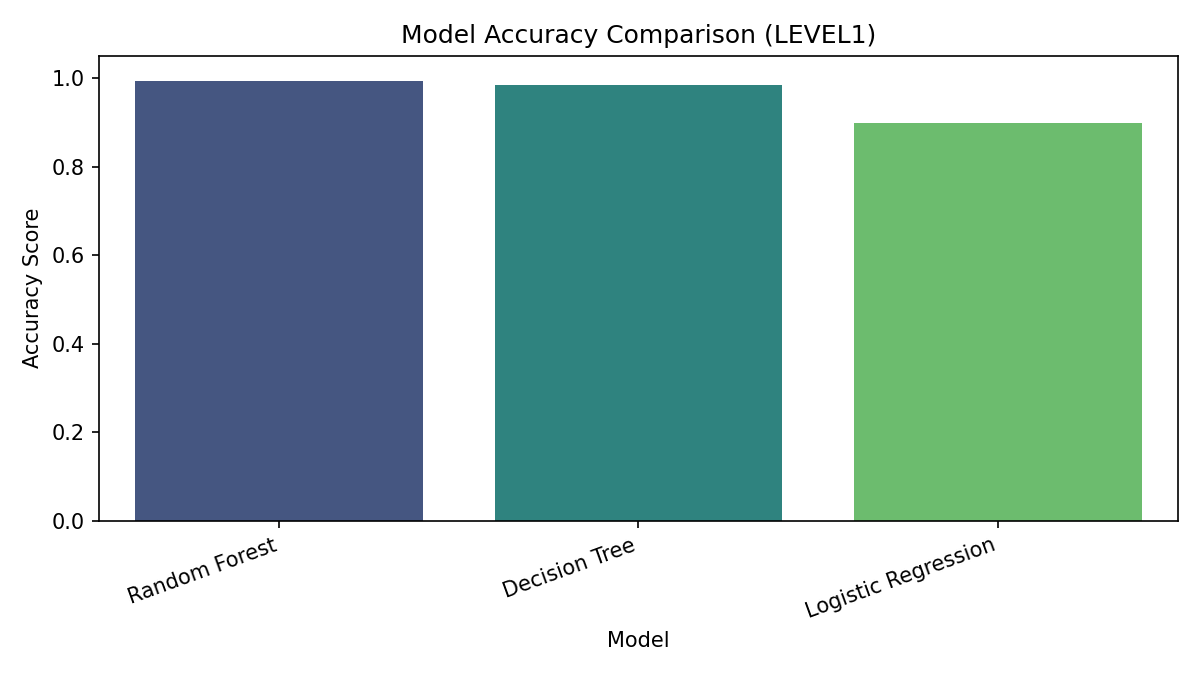
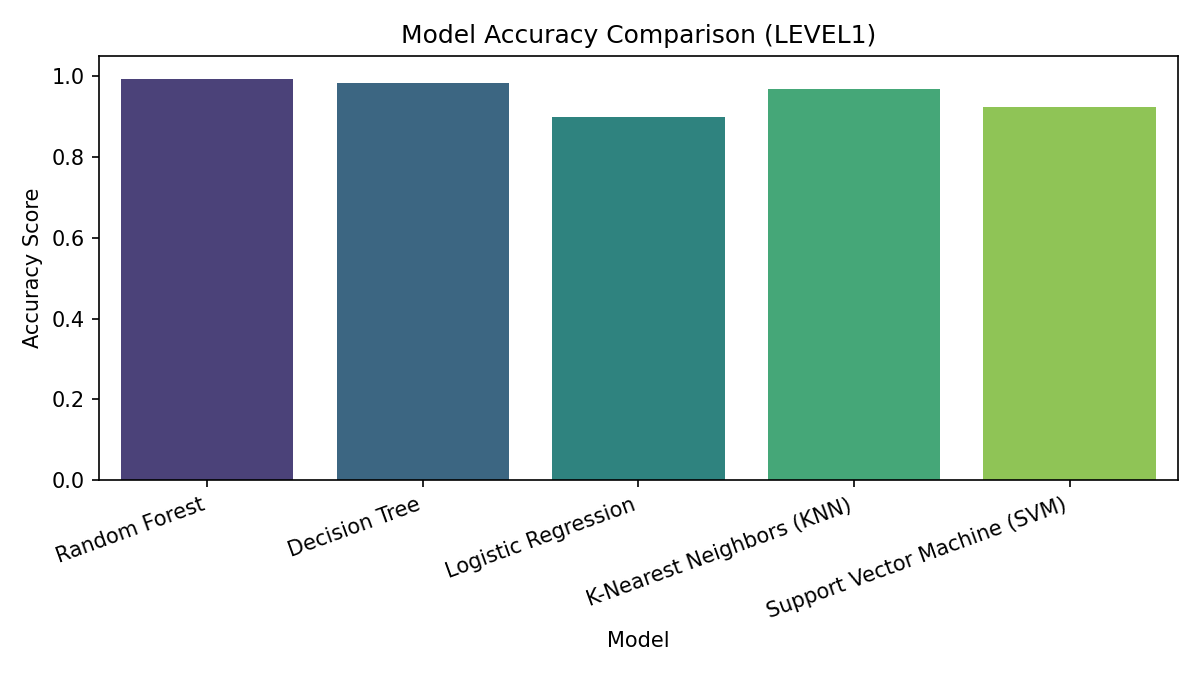
Initial commit - Cyber Guard ML

diff --git a/pages/3_Model_Training.py b/pages/3_Model_Training.py
@@ -62,7 +62,7 @@ with col_settings_2:
         default_algos = ["Linear Regression", "Decision Tree Regressor", "Random Forest Regressor"]
     else:
         available_algo_options = list(AVAILABLE_MODELS.keys())
-        default_algos = ["Logistic Regression", "Decision Tree", "Random Forest"]
+        default_algos = ["Logistic Regression", "Decision Tree", "Random Forest", "K-Nearest Neighbors (KNN)", "Support Vector Machine (SVM)"]
         
     selected_models = st.multiselect(
         "Choose Algorithms to Train:",
